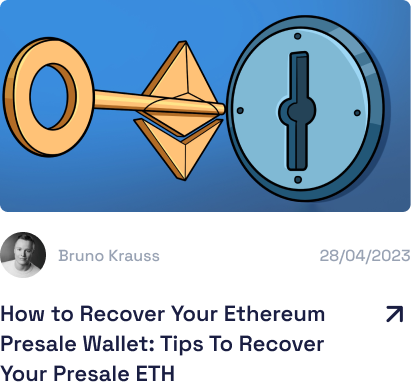
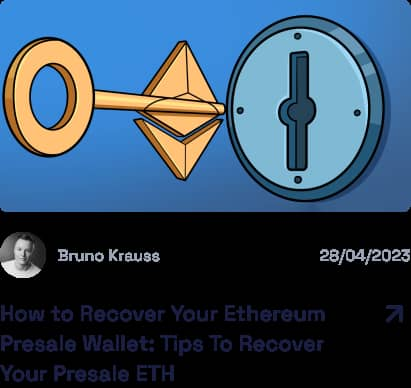
Доработки

diff --git a/index.html b/index.html
@@ -183,7 +183,7 @@
             made it increasingly challenging for the government to ban Bitcoin.
           </p>
 
-          <a class="text-link" href="#contact">Read more</a>
+          <a class="text-link" href="#contact">Read more about our story</a>
         </div>
       </div>
     </section>

diff --git a/css/style.css b/css/style.css
@@ -2,7 +2,7 @@
   font-size: 62.5%;
 
   --color-text: #202654;
-  --color-muted: #6f7696;
+  --color-muted: #5f6788;
   --color-bg: #f4f5f8;
   --color-white: #ffffff;
   --color-dark: #1d225a;
